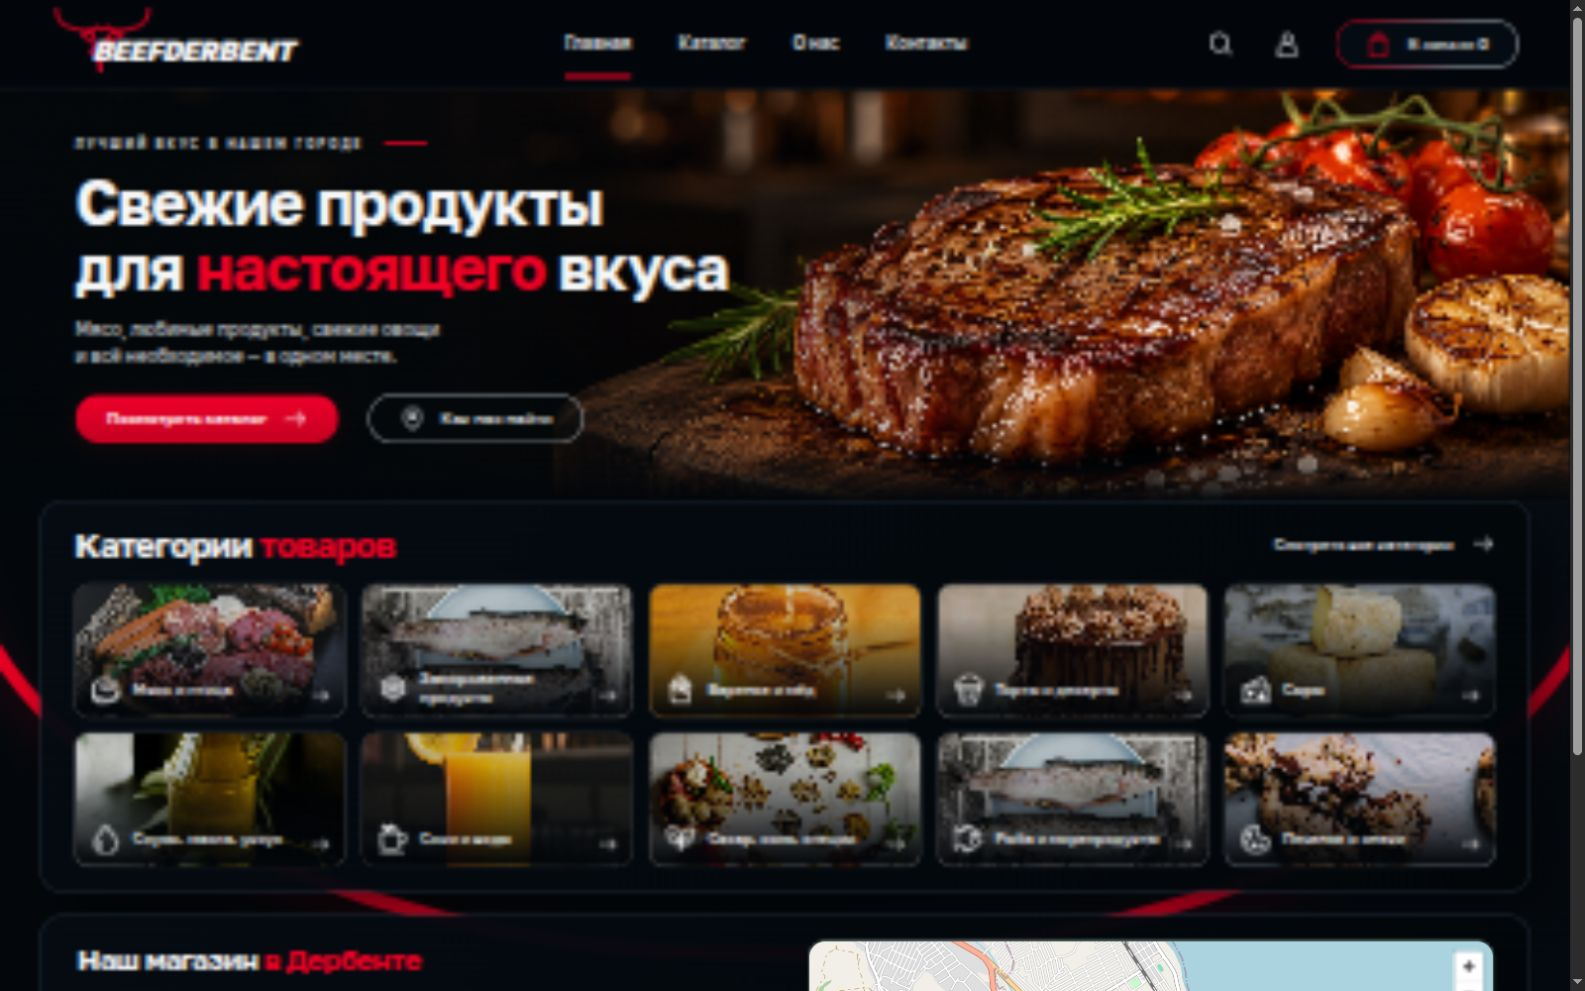
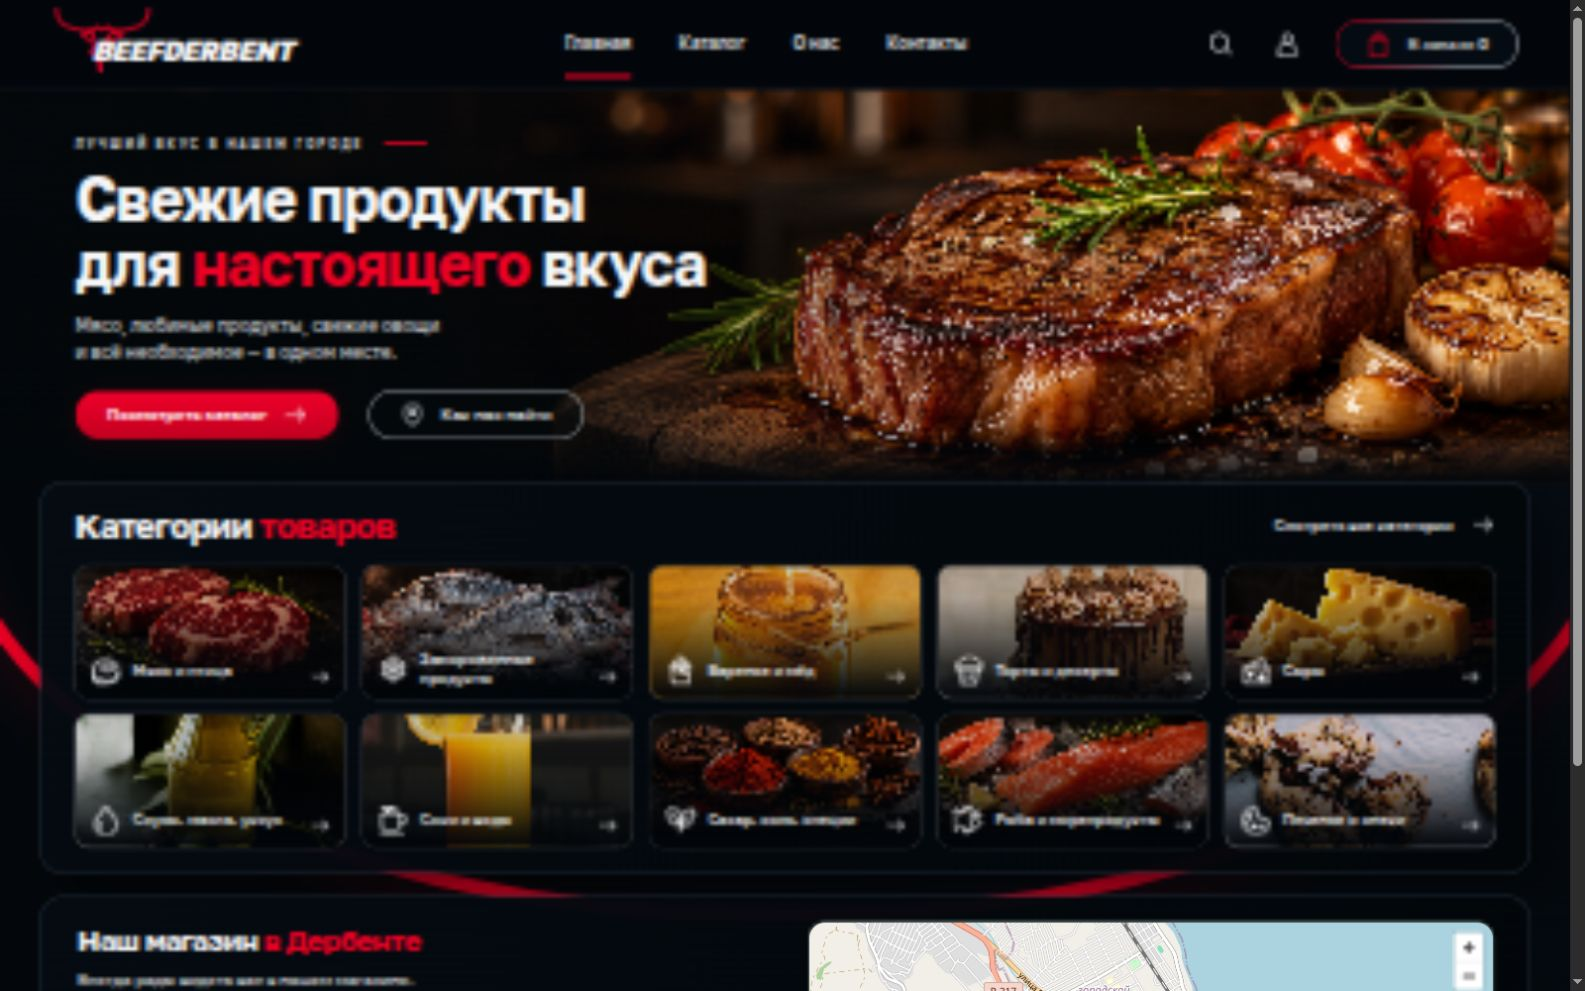
Refine reference layout and add matching food category photography

diff --git a/catalog-data.js b/catalog-data.js
@@ -1,13 +1,13 @@
 export const categories = [
-{slug:'miaso-i-ptitsa',name:'Мясо и птица',image:'assets/steak.jpg',description:'Мясо и птица для повседневных блюд и особенных ужинов.'},
-{slug:'zamorozhennye-produkty',name:'Замороженные продукты',image:'assets/reference/fish.jpg',description:'Продукты, которые удобно всегда держать под рукой.'},
+{slug:'miaso-i-ptitsa',name:'Мясо и птица',image:'assets/categories/meat.webp',description:'Мясо и птица для повседневных блюд и особенных ужинов.'},
+{slug:'zamorozhennye-produkty',name:'Замороженные продукты',image:'assets/categories/frozen.webp',description:'Продукты, которые удобно всегда держать под рукой.'},
 {slug:'varene-i-med',name:'Варенье и мёд',image:'assets/honey.jpg',description:'Любимые сладкие дополнения к чаю и завтраку.'},
 {slug:'torty-i-deserty',name:'Торты и десерты',image:'assets/reference/dessert.jpg',description:'Маленькие удовольствия и сладости для особого случая.'},
-{slug:'syry',name:'Сыры',image:'assets/cheese.jpg',description:'Для завтрака, сырной тарелки и любимых рецептов.'},
+{slug:'syry',name:'Сыры',image:'assets/categories/cheese.webp',description:'Для завтрака, сырной тарелки и любимых рецептов.'},
 {slug:'sousy-masla-uksus',name:'Соусы, масла, уксус',image:'assets/reference/oil.jpg'},
 {slug:'soki-i-vody',name:'Соки и воды',image:'assets/reference/juice.jpg'},
-{slug:'sakhar-sol-spetsii',name:'Сахар, соль, специи',image:'assets/reference/spices.jpg'},
-{slug:'ryba-i-moreprodukty',name:'Рыба и морепродукты',image:'assets/reference/fish.jpg'},
+{slug:'sakhar-sol-spetsii',name:'Сахар, соль, специи',image:'assets/categories/spices.webp'},
+{slug:'ryba-i-moreprodukty',name:'Рыба и морепродукты',image:'assets/categories/salmon.webp'},
 {slug:'pechene-i-sneki',name:'Печенье и снеки',image:'assets/reference/cookies.jpg'},
 {slug:'ovoshchi-i-zelen',name:'Овощи и зелень',image:'assets/vegetables.jpg'},
 {slug:'orekhi-i-sukhofrukty',name:'Орехи и сухофрукты',image:'assets/reference/cookies.jpg'},

diff --git a/catalog.html b/catalog.html
@@ -1,1 +1,1 @@
-<!doctype html><html lang="ru"><head><meta charset="UTF-8"><meta name="viewport" content="width=device-width,initial-scale=1"><meta name="theme-color" content="#03070b"><meta name="description" content="Beefderbent — продукты для вашего стола. Мясо и птица, сыры, овощи и многое другое. Дербент, Гейдара Алиева, 8."><title>Beefderbent — Свежие продукты для настоящего вкуса</title><link rel="preconnect" href="https://fonts.googleapis.com"><link href="https://fonts.googleapis.com/css2?family=Golos+Text:wght@400;500;600;700;800&family=Prata&display=swap" rel="stylesheet"><link rel="stylesheet" href="style.css"><link rel="stylesheet" href="theme-red.css"></head><body><div id="app"></div><script type="module" src="app.js"></script></body></html>
+<!doctype html><html lang="ru"><head><meta charset="UTF-8"><meta name="viewport" content="width=device-width,initial-scale=1"><meta name="theme-color" content="#03070b"><meta name="description" content="Beefderbent — продукты для вашего стола. Мясо и птица, сыры, овощи и многое другое. Дербент, Гейдара Алиева, 8."><title>Beefderbent — Свежие продукты для настоящего вкуса</title><link rel="preconnect" href="https://fonts.googleapis.com"><link href="https://fonts.googleapis.com/css2?family=Golos+Text:wght@400;500;600;700;800&family=Prata&display=swap" rel="stylesheet"><link rel="stylesheet" href="style.css"><link rel="stylesheet" href="theme-red.css?v=20261121-2"></head><body><div id="app"></div><script type="module" src="app.js?v=20261121-2"></script></body></html>

diff --git a/index.html b/index.html
@@ -1,1 +1,1 @@
-<!doctype html><html lang="ru"><head><meta charset="UTF-8"><meta name="viewport" content="width=device-width,initial-scale=1"><meta name="theme-color" content="#03070b"><meta name="description" content="Beefderbent — продукты для вашего стола. Мясо и птица, сыры, овощи и многое другое. Дербент, Гейдара Алиева, 8."><title>Beefderbent — Свежие продукты для настоящего вкуса</title><link rel="preconnect" href="https://fonts.googleapis.com"><link href="https://fonts.googleapis.com/css2?family=Golos+Text:wght@400;500;600;700;800&family=Prata&display=swap" rel="stylesheet"><link rel="stylesheet" href="style.css"><link rel="stylesheet" href="theme-red.css"></head><body><div id="app"></div><script type="module" src="app.js"></script></body></html>
+<!doctype html><html lang="ru"><head><meta charset="UTF-8"><meta name="viewport" content="width=device-width,initial-scale=1"><meta name="theme-color" content="#03070b"><meta name="description" content="Beefderbent — продукты для вашего стола. Мясо и птица, сыры, овощи и многое другое. Дербент, Гейдара Алиева, 8."><title>Beefderbent — Свежие продукты для настоящего вкуса</title><link rel="preconnect" href="https://fonts.googleapis.com"><link href="https://fonts.googleapis.com/css2?family=Golos+Text:wght@400;500;600;700;800&family=Prata&display=swap" rel="stylesheet"><link rel="stylesheet" href="style.css"><link rel="stylesheet" href="theme-red.css?v=20261121-2"></head><body><div id="app"></div><script type="module" src="app.js?v=20261121-2"></script></body></html>

diff --git a/product.html b/product.html
@@ -1,1 +1,1 @@
-<!doctype html><html lang="ru"><head><meta charset="UTF-8"><meta name="viewport" content="width=device-width,initial-scale=1"><meta name="theme-color" content="#03070b"><meta name="description" content="Beefderbent — продукты для вашего стола. Мясо и птица, сыры, овощи и многое другое. Дербент, Гейдара Алиева, 8."><title>Beefderbent — Свежие продукты для настоящего вкуса</title><link rel="preconnect" href="https://fonts.googleapis.com"><link href="https://fonts.googleapis.com/css2?family=Golos+Text:wght@400;500;600;700;800&family=Prata&display=swap" rel="stylesheet"><link rel="stylesheet" href="style.css"><link rel="stylesheet" href="theme-red.css"></head><body><div id="app"></div><script type="module" src="app.js"></script></body></html>
+<!doctype html><html lang="ru"><head><meta charset="UTF-8"><meta name="viewport" content="width=device-width,initial-scale=1"><meta name="theme-color" content="#03070b"><meta name="description" content="Beefderbent — продукты для вашего стола. Мясо и птица, сыры, овощи и многое другое. Дербент, Гейдара Алиева, 8."><title>Beefderbent — Свежие продукты для настоящего вкуса</title><link rel="preconnect" href="https://fonts.googleapis.com"><link href="https://fonts.googleapis.com/css2?family=Golos+Text:wght@400;500;600;700;800&family=Prata&display=swap" rel="stylesheet"><link rel="stylesheet" href="style.css"><link rel="stylesheet" href="theme-red.css?v=20261121-2"></head><body><div id="app"></div><script type="module" src="app.js?v=20261121-2"></script></body></html>

diff --git a/app.js b/app.js
@@ -1,4 +1,4 @@
-import {categories,products} from './catalog-data.js';
+import {categories,products} from './catalog-data.js?v=20261121-2';
 const icons={search:'<circle cx="10.5" cy="10.5" r="7.5"/><path d="m16 16 5 5"/>',user:'<circle cx="12" cy="7" r="4"/><path d="M4 22v-3a8 8 0 0 1 16 0v3H4Z"/>',bag:'<path d="M5 7h14v15H5zM9 9V5a3 3 0 0 1 6 0v4"/>',pin:'<path d="M20 10c0 6-8 12-8 12S4 16 4 10a8 8 0 1 1 16 0Z"/><circle cx="12" cy="10" r="2.5"/>',arrow:'<path d="M3 12h18m-6-6 6 6-6 6"/>',phone:'<path d="m6 3 4 5-3 3c2 4 3 5 7 7l3-3 5 4c-3 8-12 1-16-3S-2 5 6 3Z"/>'};
 Object.assign(icons, {
 meat:'<path d="M3 9c2-5 9-7 15-3 4 3 4 9 0 12-4 3-8 0-12 1-4 0-5-6-3-10Z"/><path d="M3 11v6c0 4 6 5 9 4 5 0 10-2 9-7"/><ellipse cx="13" cy="10" rx="4" ry="2.5"/>',

diff --git a/theme-red.css b/theme-red.css
@@ -29,3 +29,5 @@ dialog{background:#090f17;border-color:#334153;border-radius:20px;padding:32px}d
 /* Decorative ribbon stays outside the content flow without creating horizontal scroll. */
 body{overflow-x:clip}
 #app{overflow:hidden}
+/* Reference proportions: compact hero, with the category grid directly underneath. */
+@media(min-width:1600px){.hero{min-height:385px}.hero h1{font-size:60px}}

diff --git a/README.md b/README.md
@@ -49,3 +49,8 @@
 Текущая версия оформлена по референсу от 19.11.2026: SVG-знак быка, красные акценты, заголовки без засечек, иконки категорий. Дополнительный файл `theme-red.css` необходимо загрузить на сервер вместе со `style.css`.
 
 Кнопка «В заказе 0» открывает пустое состояние заказа. Товары, оплата и отправка заказа пока не подключены. Выбор способа покупки доступен в этом окне. Предыдущая золотистая версия сохранена в `/gold-v1/`.
+
+
+## Уточнение референса — 21.11.2026
+
+Для категорий «Мясо и птица», «Замороженные продукты», «Сыры», «Сахар, соль, специи» и «Рыба и морепродукты» созданы отдельные иллюстративные изображения в едином тёмном стиле. Файлы находятся в `assets/categories/`; это изображения категорий, не фотографии фактических товаров магазина. Высота первого экрана уточнена для более близкой композиции к референсу.
